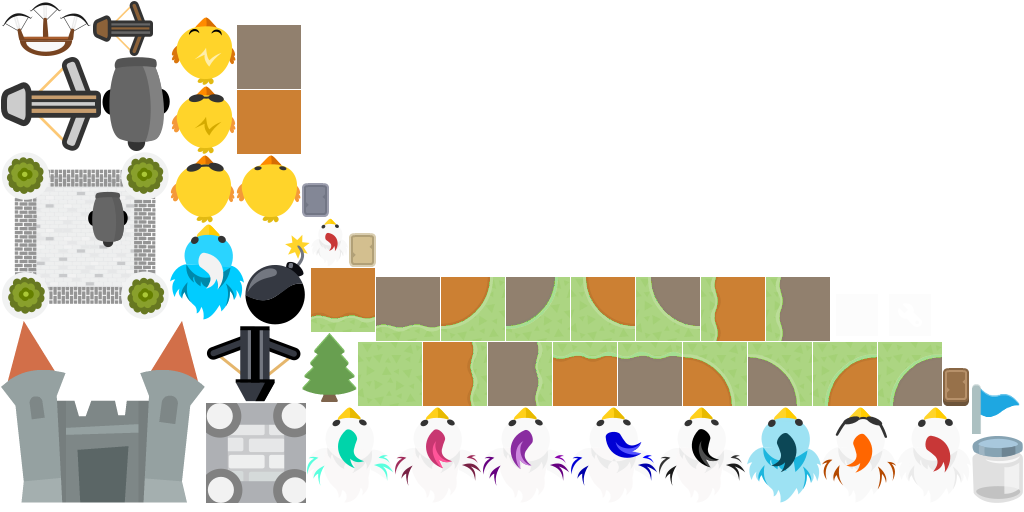
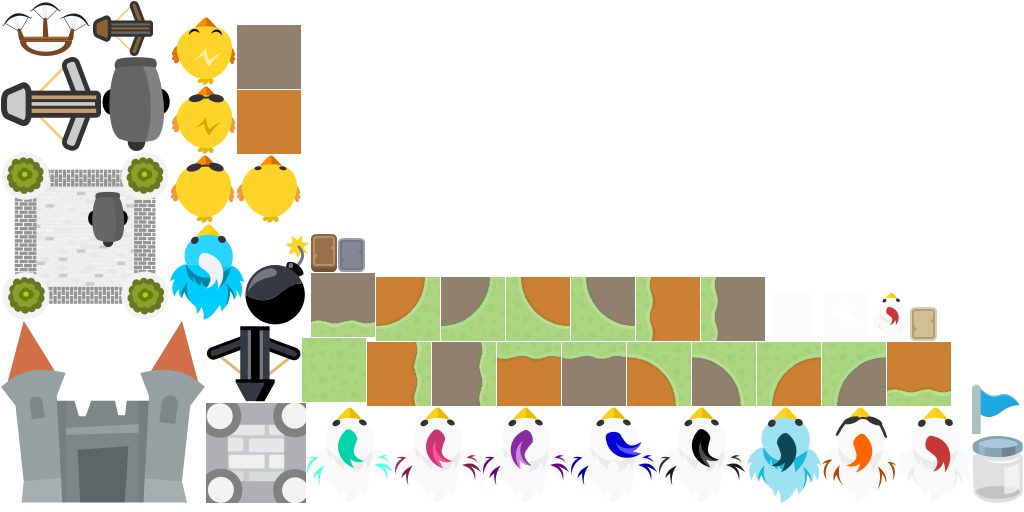
Changed style of first level tower.

Changed region(s): [[0.2812, 0.3438, 0.9688, 0.8125]]

diff --git a/core/src/main/kotlin/com/ownedoutcomes/view/render/Renderer.kt b/core/src/main/kotlin/com/ownedoutcomes/view/render/Renderer.kt
@@ -20,7 +20,7 @@ import com.ownedoutcomes.view.GameController
 
 class GameRenderer(val gameController: GameController, val batch: Batch, skin: Skin) {
   private val castleSprite = skin.atlas.createSprite("castle_v1")
-  private val towerSprite = skin.atlas.createSprite("tower")
+  private val towerSprite = skin.atlas.createSprite("tower0")
 
   private val enemySprite = skin.atlas.createSprite("chicken2_v1")
 
